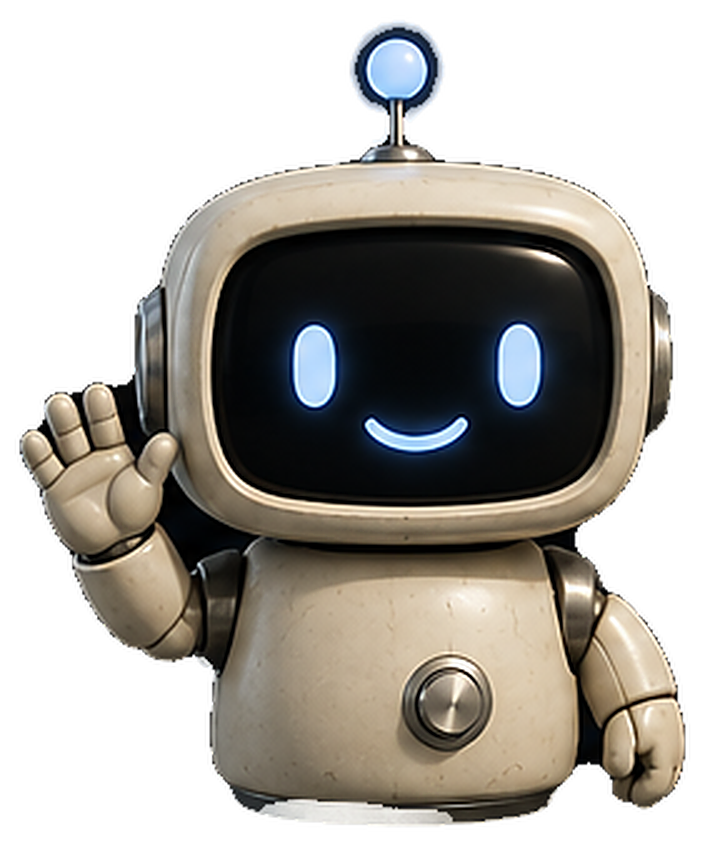
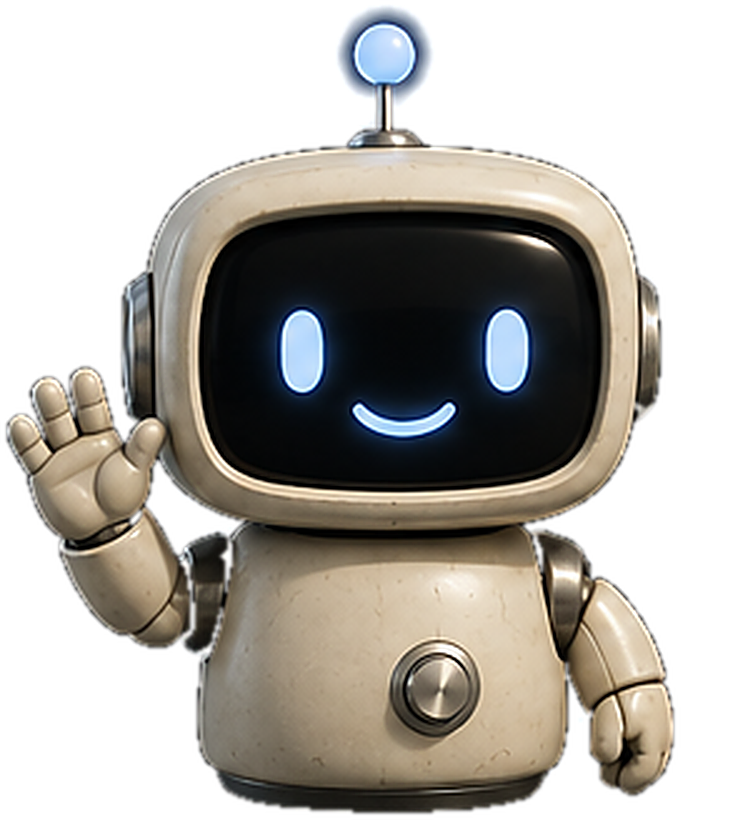
Card: he is centred, whole, and has nothing behind him
Fixes three faults in the v7 card as first built. The art box is a square sized
by height, so the roundel cannot run off the bottom of the card. He is centred
by coverage weight inside the PNG, not by a CSS nudge. And the matte no longer
forces backdrop opaque behind his arm.

⛔ SIZE HIM BY WIDTH. `height: 88%; width: auto` on the image blew the card
apart - a grid item's min-width is auto, the percentage height is indefinite
while the track is measured, so it fell back to its intrinsic 748px and dragged
the roundel out to most of the card. The box's width is definite; its height is
not, from the item's point of view.

Claude-Session: https://claude.ai/code/session_018YBC4tRw2M1weptBF6PXnS

diff --git a/og.html b/og.html
@@ -77,30 +77,41 @@ h1 em {
 }
 
 /* ---- Chatty, bottom left ---------------------------------------------- */
+/* ⛔ SIZED BY HEIGHT, AND THE BOX IS THE ROUNDEL. This was `width: 40%` with the
+   art free to be as tall as it liked, and the pose that followed was taller than
+   the space: his base and the bottom of the roundel were both cut off by the
+   edge of the card. A square box with a fixed height cannot do that - whatever
+   fits in the circle fits on the card, and the only number to tune is his size
+   inside it. */
 .art {
-  position: absolute; left: 1%; bottom: 2%;
-  width: 40%;
+  position: absolute; left: 2%; bottom: 4%;
+  height: 66%; aspect-ratio: 1;
   display: grid; place-items: center;
 }
 .art::before {
   content: "";
   position: absolute;
-  width: 88%; aspect-ratio: 1;
+  width: 100%; aspect-ratio: 1;
   border-radius: 50%;
   background: var(--teal);
   box-shadow: 0 0 0 6px var(--paper), 0 0 0 9px var(--ink);
 }
-/* ⛔ SIZED BY WIDTH, BUT THE POSE DECIDES THE NUMBER. The pointing tile was
-   almost square and filled the roundel at 100%; the waving tile is portrait
-   (705x842), so 100% would stand a head taller than the roundel and crowd the
-   title. 88% lands his height where the pointing pose's was and keeps him
-   filling the teal rather than floating in it. The old 14% nudge right existed
-   only to balance the outstretched arm - the wave is symmetrical about the
-   body, so it centres. */
+/* ⛔ NO NUDGE HERE, AND THERE MUST NOT BE ONE. He is centred by WEIGHT in the PNG
+   itself (build_wave_art.py pads the canvas), because a raised arm reaches one
+   way and nothing the other. A nudge in CSS would be a second opinion about
+   where his middle is, and the two would drift apart the moment the pose
+   changed.
+
+   ⛔ SIZE HIM BY WIDTH, NOT HEIGHT, EVEN THOUGH HEIGHT IS WHAT IS BEING JUDGED.
+   `height: 88%; width: auto` blew the card apart: a grid item's min-width is
+   auto, the percentage height is indefinite while the track is being measured,
+   so the image fell back to its intrinsic 748px, dragged the track out with it,
+   and aspect-ratio turned that into a roundel most of the card wide. The box's
+   width IS definite (its height times aspect-ratio), so a percentage width is
+   safe. Retune this if the pose is recut at a different aspect. */
 .art img {
   position: relative;
-  transform: translate(0, -2%);
-  width: 88%; height: auto;
+  width: 81%; height: auto;
   filter: drop-shadow(0 8px 14px rgba(0,0,0,.25));
 }
 
@@ -186,7 +197,7 @@ h1 em {
   </div>
 
   <div class="art">
-    <img src="assets/chatty-waving.png" width="705" height="842" alt="">
+    <img src="assets/chatty-waving.png" width="748" height="820" alt="">
   </div>
 
   <p class="pitch">“Hi! I’m Chatty. I sit on your desktop and do things for you.
